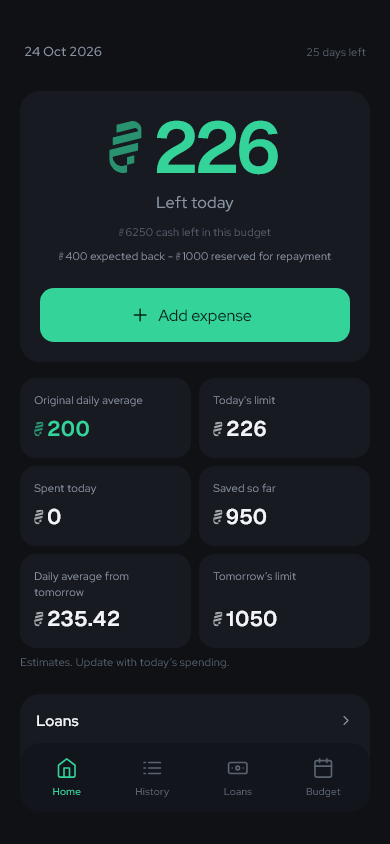
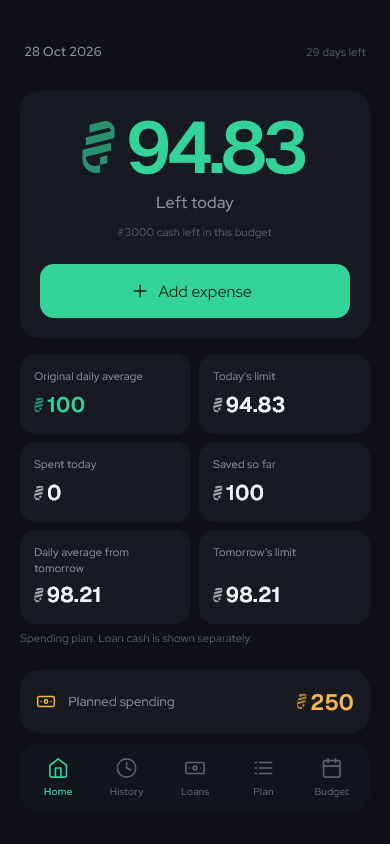
docs: show Plan modes and updated app screens

diff --git a/README.md b/README.md
@@ -65,6 +65,17 @@ You remember the big payment. Coffee, water, and snacks are easier to forget. Gi
 
 The **Plan** tab reserves an estimated amount for one day or several selected days in your active budget. Choose **Total**, **Per day**, or **Custom**, add a label and icon, then check the split and daily-limit preview. A total of 100 DA over three days becomes 34, 33, and 33 DA. Custom lets you enter a different estimated amount for each day. Tap a date or amount to correct it before saving.
 
+| Mode | Example |
+| --- | --- |
+| Total | Split 100 DA across three days: 34, 33, 33. |
+| Per day | Reserve 100 DA for each selected day. |
+| Custom | Reserve 50 DA today and 150 DA tomorrow. |
+
+<p align="center">
+  <img src="docs/screenshots/plan.png" width="265" alt="Plan overview with search and Upcoming, Needs review, and Completed filters">
+  <img src="docs/screenshots/plan-custom.png" width="265" alt="Custom daily estimates with separate date and amount inputs, red trash actions, and reservation preview cards">
+</p>
+
 - Search plans or filter **Upcoming**, **Needs review**, and **Completed**.
 - Home shows **Planned spending** and **Next plan**. Reservations reduce ordinary spending limits but do not change cash or the original daily average.
 - On the planned day, record the actual expense. Change the amount, label, icon, date, or time if needed. Saving replaces that day's reservation with one expense in History.
@@ -73,6 +84,10 @@ The **Plan** tab reserves an estimated amount for one day or several selected da
 - When a budget stops, unfinished days stay available for review. Move them to dates in the active budget. Completed days stay linked to their saved budget.
 
 Navigation follows **Home, History, Loans, Plan, Budget**. Amount inputs support calculations such as `340/5` and `120+250`, with whole-dinar results.
+
+<p align="center">
+  <img src="docs/screenshots/home-plans.png" width="265" alt="Home cards show planned spending and the next plan with its icon, date, and amount">
+</p>
 
 ## Money between friends
 
